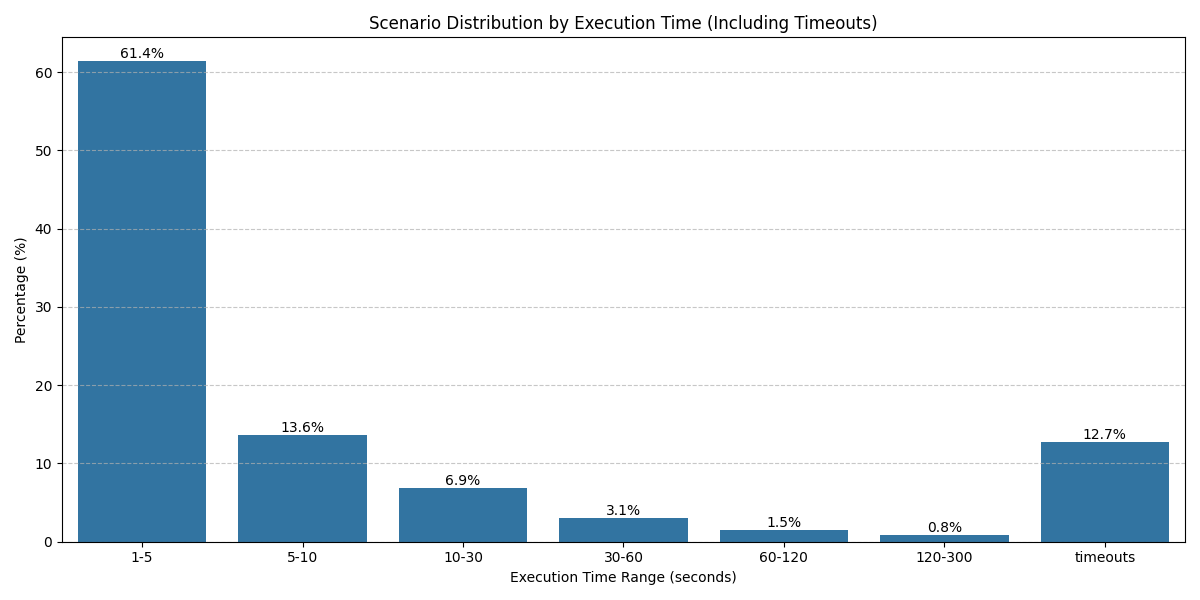
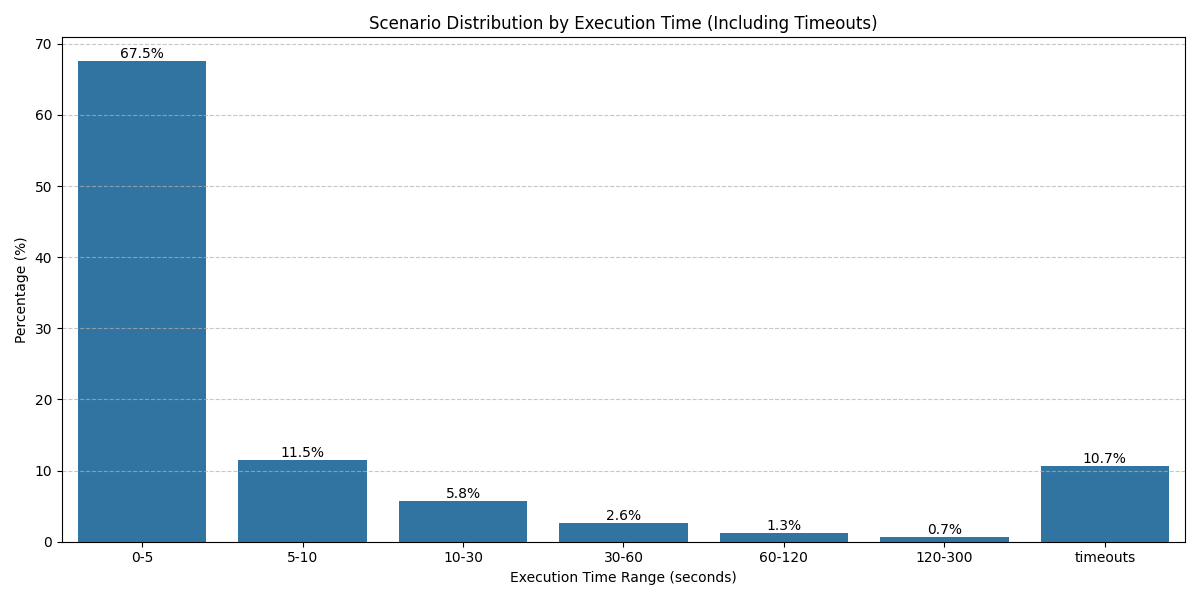
fixing distribution graphics

diff --git a/OA-analysis-report/perfomanceAnalysis/perfomanceAnalysis.py b/OA-analysis-report/perfomanceAnalysis/perfomanceAnalysis.py
@@ -163,6 +163,7 @@ class PerformanceAnalyzer:
             timeout_value = max(max_time + 50, 400)  # Add 50 seconds above max or use 400
             time_data.extend([timeout_value] * timeout_count)
         
+        
         if len(time_data) > 0:
             self.visualizer.plot_histogram(
                 data=time_data,
@@ -219,7 +220,7 @@ class PerformanceAnalyzer:
         
         # Define time groups (in seconds) with updated 120-300 and timeout(>300)
         time_groups = {
-            '1-5': (1, 5),
+            '0-5': (0, 5),
             '5-10': (5, 10),
             '10-30': (10, 30),
             '30-60': (30, 60),
@@ -245,6 +246,7 @@ class PerformanceAnalyzer:
         # Create bar chart data with percentages
         if group_counts:
             total = sum(group_counts.values())
+            print("Total groups counted (including timeouts):", total)
             x_labels = list(group_counts.keys())
             y_percentages = [count / total * 100 for count in group_counts.values()]
             
